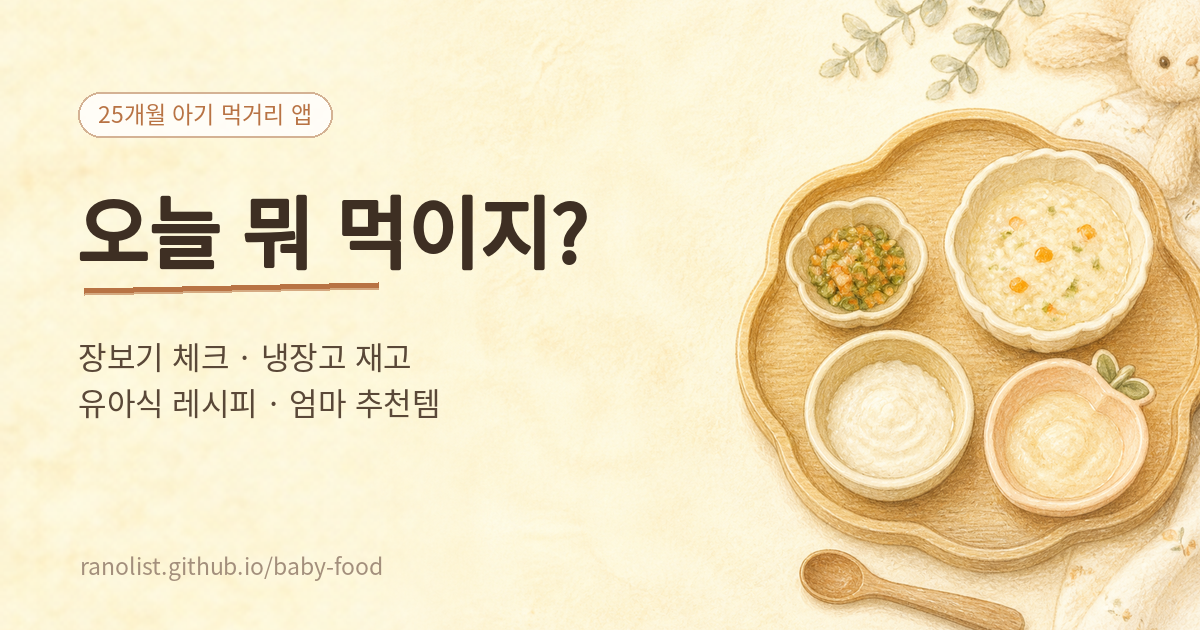
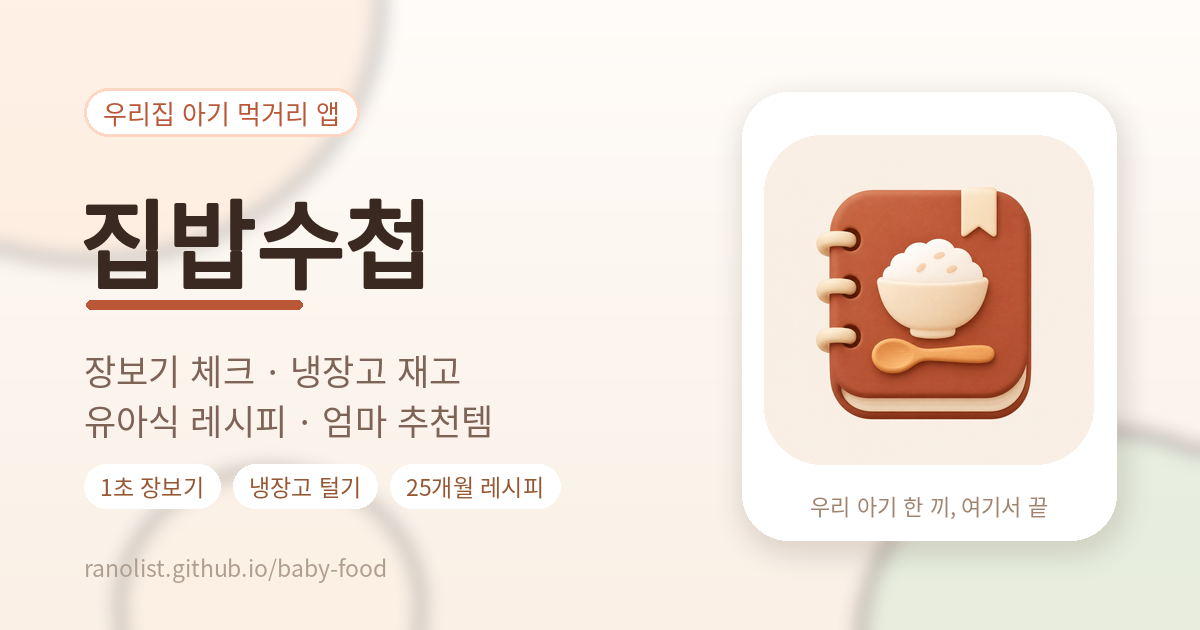
앱 이름을 집밥수첩으로 변경하고 새 아이콘·OG 이미지 적용

diff --git a/index.html b/index.html
@@ -3,27 +3,29 @@
 <head>
 <meta charset="UTF-8">
 <meta name="viewport" content="width=device-width, initial-scale=1.0, maximum-scale=1.0, user-scalable=no">
-<title>오늘 뭐 먹이지? 아기 먹거리·장보기</title>
+<title>집밥수첩 | 우리집 아기 먹거리·장보기</title>
 <meta name="description" content="25개월 아기 먹거리·장보기·냉장고·레시피를 한 화면에서. 1초 장보기 체크부터 냉장고 재고, 유아식 레시피까지.">
 <meta property="og:type" content="website">
 <meta property="og:url" content="https://ranolist.github.io/baby-food/">
-<meta property="og:title" content="오늘 뭐 먹이지? | 25개월 아기 먹거리·냉장고·레시피">
+<meta property="og:title" content="집밥수첩 | 우리집 아기 먹거리·장보기">
 <meta property="og:description" content="1초 장보기 체크부터 냉장고 재고, 유아식 레시피, 엄마 추천템까지 한눈에!">
 <meta property="og:image" content="https://ranolist.github.io/baby-food/og-image.png">
 <meta property="og:image:width" content="1200">
 <meta property="og:image:height" content="630">
 <meta property="og:locale" content="ko_KR">
 <meta name="twitter:card" content="summary_large_image">
-<meta name="twitter:title" content="오늘 뭐 먹이지? | 25개월 아기 먹거리·냉장고·레시피">
+<meta name="twitter:title" content="집밥수첩 | 우리집 아기 먹거리·장보기">
 <meta name="twitter:description" content="1초 장보기 체크부터 냉장고 재고, 유아식 레시피, 엄마 추천템까지 한눈에!">
 <meta name="twitter:image" content="https://ranolist.github.io/baby-food/og-image.png">
 <link rel="manifest" href="manifest.json">
-<link rel="apple-touch-icon" href="icon-512.png">
-<link rel="icon" type="image/png" href="icon-512.png">
+<link rel="apple-touch-icon" sizes="180x180" href="apple-touch-icon.png">
+<link rel="icon" type="image/png" sizes="32x32" href="favicon-32.png">
+<link rel="icon" type="image/png" sizes="192x192" href="icon-192.png">
+<link rel="icon" href="favicon.ico" sizes="any">
 <meta name="theme-color" content="#f4e8d8">
 <meta name="apple-mobile-web-app-capable" content="yes">
 <meta name="apple-mobile-web-app-status-bar-style" content="default">
-<meta name="apple-mobile-web-app-title" content="아기먹거리">
+<meta name="apple-mobile-web-app-title" content="집밥수첩">
 <style>
   :root {
     --bg: #faf5ed;
@@ -385,10 +387,10 @@
 <div class="wrap">
   <header>
     <div class="brand">
-      <img class="brand-icon" src="icon-512.png" alt="아기 먹거리 앱 아이콘">
+      <img class="brand-icon" src="icon-192.png" alt="집밥수첩 앱 아이콘">
       <div style="min-width:0;">
-        <h1>오늘 뭐 먹이지?</h1>
-        <p>장보기부터 우리집에 있는 먹거리까지 한 번에</p>
+        <h1>집밥수첩</h1>
+        <p>우리집 아기 먹거리·장보기</p>
       </div>
     </div>
     <button class="family-badge" id="familyBadge" onclick="openFamilyModal()">👨👩👧 가족 연결</button>

diff --git a/README.md b/README.md
@@ -1,11 +1,11 @@
-# 오늘 뭐 먹이지? — 아기 먹거리·장보기 웹앱
+# 집밥수첩 — 우리집 아기 먹거리·장보기 웹앱
 
 25개월 아기를 키우는 엄마가 만든, 하루 먹거리를 정하고 장보기까지 한 번에 끝내는 모바일 웹앱입니다.
 
-- **오늘 뭐 먹이지**: 월령에 맞는 유아식 메뉴 추천
-- **장보기 목록**: 필요한 재료를 한 번에 정리, 복사해서 장보기
-- **냉장고**: 집에 있는 재료로 만들 수 있는 메뉴 확인
-- **레시피**: 간단한 조리 순서
+- **메뉴 추천**: 월령에 맞는 유아식 메뉴 추천
+- **장보기 목록**: 필요한 재료를 한 번에 정리, 카톡용으로 복사해서 장보기
+- **우리집**: 집에 있는 재료를 냉장·냉동·실온으로 나눠 재고 확인
+- **레시피**: 간단한 조리 순서와 아기 반응 기록
 
 설치 없이 브라우저에서 바로 열립니다: https://ranolist.github.io/baby-food/
 
